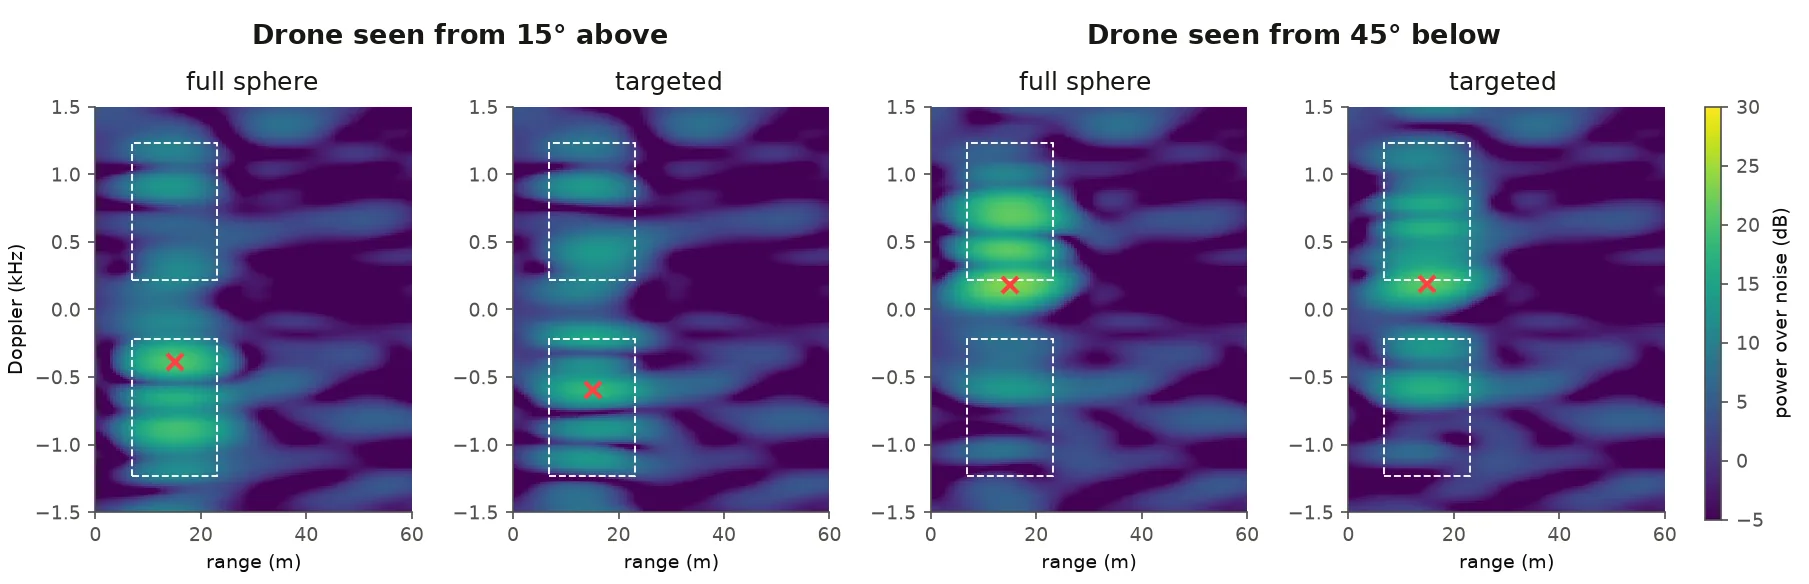
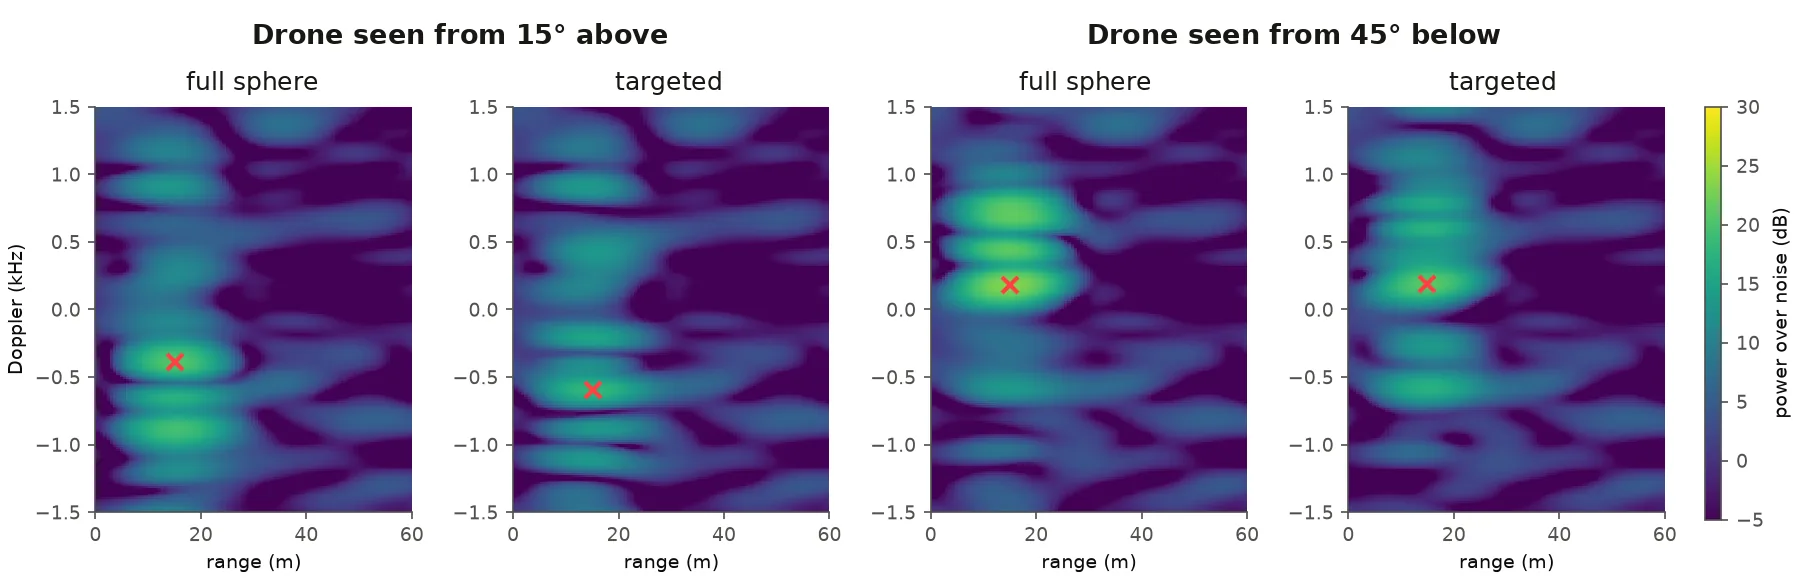
Remove dashed search-window boxes from detection and wind maps

Changed region(s): [[0.7739, 0.4623, 0.8049, 0.4932], [0.5572, 0.4623, 0.5882, 0.4932]]

diff --git a/index.html b/index.html
@@ -235,7 +235,7 @@
           <figcaption class="tile-cap"><span class="tile-label">Nine signatures</span> Blade flashes in all nine: still surroundings change little, hiding the drone changes a lot.</figcaption>
         </figure>
         <figure class="tile tile-full">
-          <a class="frame" href="images/50_wind_rd.webp" title="Open the full-size image"><picture><source media="(max-width: 56rem)" srcset="images/50_wind_rd_narrow.webp" width="1077" height="1160"><img src="images/50_wind_rd.webp" width="1957" height="580" loading="lazy" decoding="async" alt="Four range-Doppler maps with two dashed boxes marking the drone region. Calm: faint bands inside the boxes. Wind 10 metres per second with clutter in the drone's range cell: a bright band hugging zero Doppler at short ranges. Wind with clutter at all ranges: the band stretches along the whole range axis. At 5.8 gigahertz: a similar band on a wider Doppler axis."></picture></a>
+          <a class="frame" href="images/50_wind_rd.webp" title="Open the full-size image"><picture><source media="(max-width: 56rem)" srcset="images/50_wind_rd_narrow.webp" width="1077" height="1160"><img src="images/50_wind_rd.webp" width="1957" height="580" loading="lazy" decoding="async" alt="Four range-Doppler maps; the drone sits at about 15 metres. Calm: faint bands at the drone's range. Wind 10 metres per second with clutter in the drone's range cell: a bright band hugging zero Doppler at short ranges. Wind with clutter at all ranges: the band stretches along the whole range axis. At 5.8 gigahertz: a similar band on a wider Doppler axis."></picture></a>
           <figcaption class="tile-cap"><span class="tile-label">Wind</span> Simulated wind-blown vegetation smears clutter around zero Doppler, next to the drone.</figcaption>
         </figure>
       </div>
@@ -257,7 +257,7 @@
           <figcaption class="tile-cap"><span class="tile-label">Farther</span> The same hover at 15, 42 and 85&nbsp;m keeps its signature shape.</figcaption>
         </figure>
         <figure class="tile tile-full">
-          <a class="frame" href="images/42_detect_launch.webp" title="Open the full-size image"><picture><source media="(max-width: 56rem)" srcset="images/42_detect_launch_narrow.webp" width="932" height="1168"><img src="images/42_detect_launch.webp" width="1809" height="584" loading="lazy" decoding="async" alt="Four range-Doppler maps with a colour bar of power over noise. Two geometries, drone seen from 15 degrees above and from 45 degrees below, each run with a full-sphere and a targeted launch. Dashed boxes mark the drone region and a red cross marks the detection, at the drone's range for both launches."></picture></a>
+          <a class="frame" href="images/42_detect_launch.webp" title="Open the full-size image"><picture><source media="(max-width: 56rem)" srcset="images/42_detect_launch_narrow.webp" width="932" height="1168"><img src="images/42_detect_launch.webp" width="1809" height="584" loading="lazy" decoding="async" alt="Four range-Doppler maps with a colour bar of power over noise. Two geometries, drone seen from 15 degrees above and from 45 degrees below, each run with a full-sphere and a targeted launch. A red cross marks the detection, at the drone's range for both launches."></picture></a>
           <figcaption class="tile-cap"><span class="tile-label">Detection</span> Through the full detection chain, both launches find the drone in the same range cell.</figcaption>
         </figure>
       </div>
